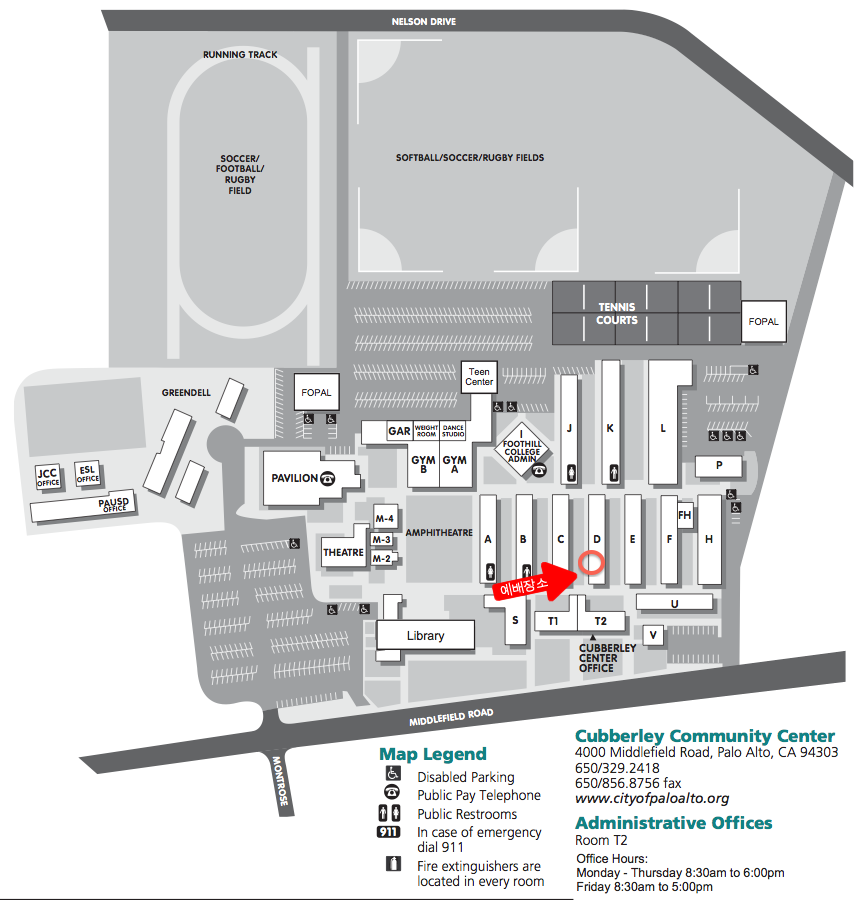
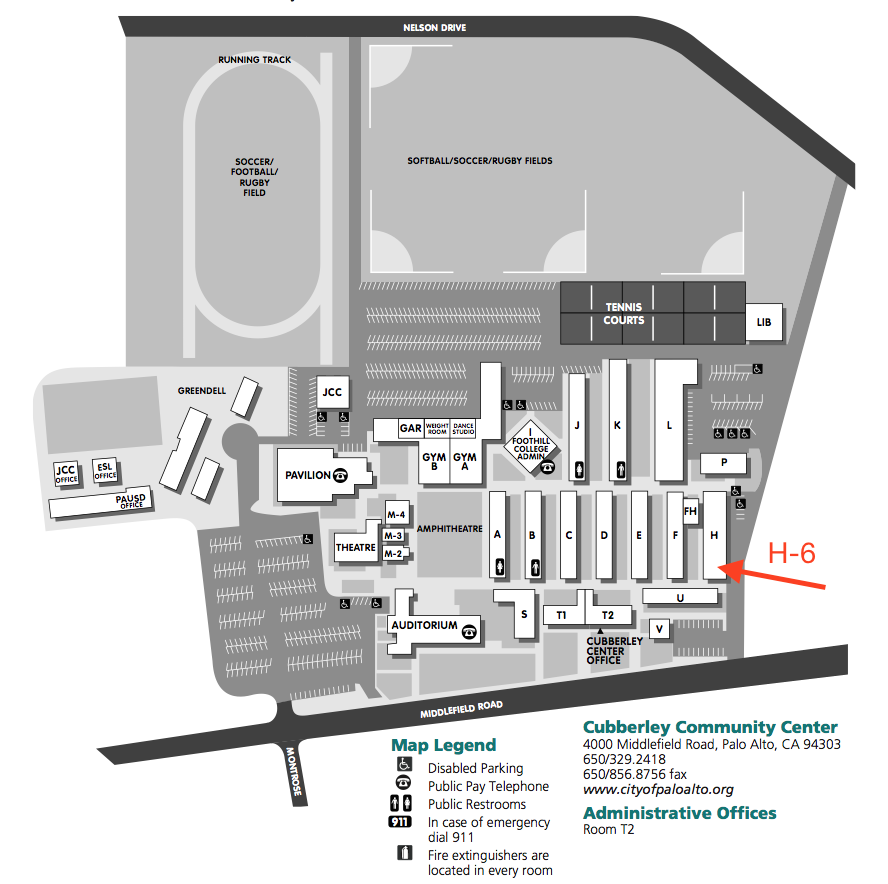
Updated location

diff --git a/index.html b/index.html
@@ -20,7 +20,7 @@ title: 하나의 씨앗 교회
       동네 커뮤니티 센터에 있는 아담한 교실에서 모이고 있습니다
     </p>
     <p>
-      Cubberley Community Center,<br><a href="/img/cubberley-map.png">Room D-1</a><br>
+      Cubberley Community Center,<br><a href="/img/cubberley-map.png">Room H-6</a><br>
       4000 Middlefield Rd. Palo Alto, CA 94306
     </p>
 
